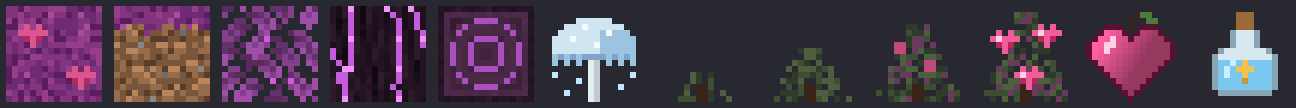
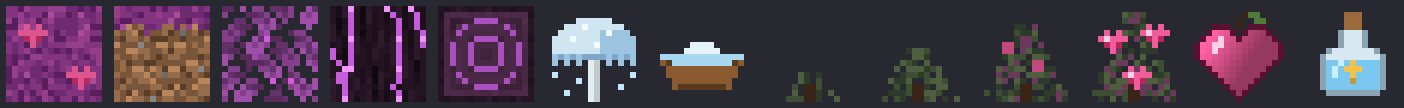
Demon Realm polish: glowing ripe heartfruit, bone meal, weepcap stew, fog option
Ripe heartfruit bushes glow softly (light 5). Bone meal on realm grass
grows the realm's own plants round it: crimson roots, now and then a
weepcap or heartfruit bush. Weepcap stew (two weepcaps and a bowl) gives
a minute of night vision. The realmFog option turns off the client fog,
haze and sighs. The journal mentions wild patches and the realm's edge.

diff --git a/src/main/java/com/linkyoshi90/monstergirls/block/RealmGrassBlock.java b/src/main/java/com/linkyoshi90/monstergirls/block/RealmGrassBlock.java
@@ -23,7 +23,7 @@ import org.joml.Vector3f;
  * Each patch knows how far it is from where the realm was seeded ({@link #DEPTH}): it spreads no further than {@link #MAX_DEPTH} blocks
  * past its source, so a realm grows to its size round a Lilith (or a wild patch) and stops there, instead of swallowing the world.
  */
-public class RealmGrassBlock extends SnowyDirtBlock {
+public class RealmGrassBlock extends SnowyDirtBlock implements net.minecraft.world.level.block.BonemealableBlock {
     public static final MapCodec<RealmGrassBlock> CODEC = simpleCodec(RealmGrassBlock::new);
     /** Block light (not daylight) at or above this keeps the realm away. */
     public static final int LIGHT = 8;
@@ -114,6 +114,40 @@ public class RealmGrassBlock extends SnowyDirtBlock {
         if (depth >= MAX_DEPTH) return null;
         BlockPos to = pos.offset(random.nextInt(3) - 1, random.nextInt(5) - 3, random.nextInt(3) - 1);
         return corrupt(level, to, depth + 1) ? to : null;
+    }
+
+    // --- bone meal: the realm's own plants, as grass grows its own ------------------------------------------------------
+
+    @Override
+    public boolean isValidBonemealTarget(net.minecraft.world.level.LevelReader level, BlockPos pos, BlockState state) {
+        return level.getBlockState(pos.above()).isAir();
+    }
+
+    @Override
+    public boolean isBonemealSuccess(Level level, RandomSource random, BlockPos pos, BlockState state) {
+        return true;
+    }
+
+    @Override
+    public void performBonemeal(ServerLevel level, RandomSource random, BlockPos pos, BlockState state) {
+        bloom(level, pos, random);
+    }
+
+    /** Crimson roots on the bare realm grass round a spot, a weepcap or heartfruit bush now and then. How many plants grew. */
+    public static int bloom(net.minecraft.world.level.LevelAccessor level, BlockPos pos, RandomSource random) {
+        int grown = 0;
+        for (int i = 0; i < 24; i++) {
+            BlockPos ground = pos.offset(random.nextInt(7) - 3, random.nextInt(3) - 1, random.nextInt(7) - 3);
+            if (!level.getBlockState(ground).is(ModBlocks.REALM_GRASS.get()) || !level.isEmptyBlock(ground.above())) continue;
+            int roll = random.nextInt(12);
+            if (roll == 0 && WeepcapBlock.sprout(level, ground)) grown++;
+            else if (roll == 1 && HeartfruitBushBlock.sprout(level, ground)) grown++;
+            else if (roll > 1) {
+                level.setBlock(ground.above(), Blocks.CRIMSON_ROOTS.defaultBlockState(), Block.UPDATE_ALL);
+                grown++;
+            }
+        }
+        return grown;
     }
 
     @Override

diff --git a/src/main/java/com/linkyoshi90/monstergirls/MonsterGirlsConfig.java b/src/main/java/com/linkyoshi90/monstergirls/MonsterGirlsConfig.java
@@ -130,6 +130,7 @@ public final class MonsterGirlsConfig {
     public static final ModConfigSpec.BooleanValue MILK_DRIPS;
     public static final ModConfigSpec.BooleanValue FLIRTING;
     public static final ModConfigSpec.BooleanValue DEMON_REALM;
+    public static final ModConfigSpec.BooleanValue REALM_FOG;
     public static final ModConfigSpec.BooleanValue LUCKY_MOMENTS;
     public static final ModConfigSpec.BooleanValue MONSTERIZATION;
     public static final ModConfigSpec.BooleanValue DREAM_VISITS;
@@ -154,6 +155,10 @@ public final class MonsterGirlsConfig {
         DEMON_REALM = BUILDER
                 .comment("A wild Lilith grows Demon Realm grass around her, and it spreads in the dark until light or holy water drives it back. Off: no new realm grows or spreads.")
                 .define("demonRealm", true);
+
+        REALM_FOG = BUILDER
+                .comment("Inside the Demon Realm a rose-violet fog closes in, haze drifts and distant sighs play (client side).")
+                .define("realmFog", true);
 
         LUCKY_MOMENTS = BUILDER
                 .comment("Slapstick moments: a bathing girl who catches you looking splashes you (a close friend just blushes), and friends beside you now and then trip into you.")
@@ -339,6 +344,10 @@ public final class MonsterGirlsConfig {
 
     public static boolean luckyMoments() {
         return SPEC.isLoaded() ? LUCKY_MOMENTS.get() : LUCKY_MOMENTS.getDefault();
+    }
+
+    public static boolean realmFog() {
+        return SPEC.isLoaded() ? REALM_FOG.get() : REALM_FOG.getDefault();
     }
 
     public static boolean demonRealm() {

diff --git a/tools/gen_realm_assets.py b/tools/gen_realm_assets.py
@@ -359,8 +359,29 @@ def realm_log():
     return side, top
 
 
+def weepcap_stew():
+    """a wooden bowl of pale blue broth with a weepcap cap floating in it"""
+    img = Image.new("RGBA", (16, 16), (0, 0, 0, 0))
+    px = img.load()
+    wood, wood_dark, broth, cap = rgb("#8A5A30"), rgb("#5A3A1E"), rgb("#A8D8F0"), rgb("#E4F2FA")
+    for y in range(8, 14):
+        half = 7 - (y - 8) // 2 if y > 9 else 7
+        for x in range(8 - half, 8 + half):
+            px[x, y] = wood if y > 8 else broth
+    for x in range(2, 14):
+        px[x, 8] = broth
+        px[x, 9] = broth if 3 <= x <= 12 else wood_dark
+    for x in range(5, 11):
+        px[x, 7] = cap
+    for x in (6, 7, 8, 9):
+        px[x, 6] = cap
+    for x in range(4, 12):
+        px[x, 13] = wood_dark
+    return save(img, "item", "weepcap_stew.png")
+
+
 def preview(path):
-    tiles = [realm_top(), realm_side(), realm_leaves(), *realm_log(), weepcap()] + [bush(s) for s in range(4)] + [heartfruit(), holy_water()]
+    tiles = [realm_top(), realm_side(), realm_leaves(), *realm_log(), weepcap(), weepcap_stew()] + [bush(s) for s in range(4)] + [heartfruit(), holy_water()]
     sheet = Image.new("RGBA", (len(tiles) * 18 * 6, 18 * 6), (40, 40, 48, 255))
     for i, t in enumerate(tiles):
         sheet.paste(t.resize((96, 96), Image.NEAREST), (i * 108 + 6, 6), t.resize((96, 96), Image.NEAREST))
@@ -380,6 +401,7 @@ def main():
     data()
     realm_plant_data()
     realm_log()
+    weepcap_stew()
     if "--preview" in sys.argv:
         preview(sys.argv[sys.argv.index("--preview") + 1])
 

diff --git a/src/main/java/com/linkyoshi90/monstergirls/registry/ModItems.java b/src/main/java/com/linkyoshi90/monstergirls/registry/ModItems.java
@@ -215,6 +215,11 @@ public final class ModItems {
     public static final DeferredItem<BlockItem> REALM_LEAVES = ITEMS.registerSimpleBlockItem(ModBlocks.REALM_LEAVES);
     public static final DeferredItem<BlockItem> REALM_LOG = ITEMS.registerSimpleBlockItem(ModBlocks.REALM_LOG);
     public static final DeferredItem<BlockItem> WEEPCAP = ITEMS.registerSimpleBlockItem(ModBlocks.WEEPCAP);
+    /** Weepcap stew: the realm's pale mushrooms let you see in the dark for a while. */
+    public static final DeferredItem<Item> WEEPCAP_STEW = ITEMS.registerItem("weepcap_stew", props -> new Item(props.stacksTo(1)
+            .craftRemainder(net.minecraft.world.item.Items.BOWL)
+            .food(new FoodProperties.Builder().nutrition(5).saturationModifier(0.6F).usingConvertsTo(net.minecraft.world.item.Items.BOWL)
+                    .effect(() -> new net.minecraft.world.effect.MobEffectInstance(net.minecraft.world.effect.MobEffects.NIGHT_VISION, 1200, 0), 1.0F).build())));
     public static final DeferredItem<net.minecraft.world.item.ItemNameBlockItem> HEARTFRUIT = ITEMS.register("heartfruit",
             () -> new net.minecraft.world.item.ItemNameBlockItem(ModBlocks.HEARTFRUIT_BUSH.get(),
                     new Item.Properties().food(new FoodProperties.Builder().nutrition(3).saturationModifier(0.5F).build())));

diff --git a/src/main/java/com/linkyoshi90/monstergirls/gametest/DemonRealmTests.java b/src/main/java/com/linkyoshi90/monstergirls/gametest/DemonRealmTests.java
@@ -256,4 +256,15 @@ public class DemonRealmTests {
         check(level.getBlockState(trunk.above(2)).is(ModBlocks.REALM_LOG.get()) && level.getBlockState(trunk.above(4)).is(ModBlocks.REALM_LEAVES.get()), "the tree over it turned");
         helper.succeed();
     }
+    @GameTest(template = PLATFORM, timeoutTicks = 60, batch = "boneMealOnTheRealm")
+    public static void boneMealOnTheRealm(GameTestHelper helper) {
+        ServerLevel level = helper.getLevel();
+        BlockPos g = ground(helper, 7, 7);
+        for (BlockPos p : BlockPos.betweenClosed(g.offset(-3, 0, -3), g.offset(3, 0, 3))) RealmGrassBlock.corrupt(level, p.immutable());
+        int grown = RealmGrassBlock.bloom(level, g, level.random);
+        int roots = 0;
+        for (BlockPos p : BlockPos.betweenClosed(g.offset(-3, 1, -3), g.offset(3, 1, 3))) if (level.getBlockState(p).is(Blocks.CRIMSON_ROOTS)) roots++;
+        check(grown > 3 && roots > 0, "the realm's own plants: " + grown);
+        helper.succeed();
+    }
 }

diff --git a/src/main/java/com/linkyoshi90/monstergirls/registry/ModBlocks.java b/src/main/java/com/linkyoshi90/monstergirls/registry/ModBlocks.java
@@ -134,6 +134,7 @@ public final class ModBlocks {
     public static final DeferredBlock<com.linkyoshi90.monstergirls.block.HeartfruitBushBlock> HEARTFRUIT_BUSH = BLOCKS.registerBlock("heartfruit_bush",
             com.linkyoshi90.monstergirls.block.HeartfruitBushBlock::new,
             BlockBehaviour.Properties.of().mapColor(MapColor.COLOR_PINK).randomTicks().noCollission().instabreak().sound(SoundType.SWEET_BERRY_BUSH)
+                    .lightLevel(s -> s.getValue(com.linkyoshi90.monstergirls.block.HeartfruitBushBlock.AGE) == 3 ? 5 : 0)
                     .pushReaction(PushReaction.DESTROY));
 
     /** Leaves the Demon Realm has crept into: they weep violet sap and remember what they were (RealmLeavesBlock). */

diff --git a/src/main/java/com/linkyoshi90/monstergirls/client/RealmAtmosphere.java b/src/main/java/com/linkyoshi90/monstergirls/client/RealmAtmosphere.java
@@ -53,7 +53,7 @@ public final class RealmAtmosphere {
         Minecraft mc = Minecraft.getInstance();
         Player p = mc.player;
         if (p == null || mc.level == null || mc.isPaused()) return;
-        if (p.tickCount % 10 == 0) target = density(mc.level, p.blockPosition());
+        if (p.tickCount % 10 == 0) target = com.linkyoshi90.monstergirls.MonsterGirlsConfig.realmFog() ? density(mc.level, p.blockPosition()) : 0.0F;
         last = strength;
         strength += (target - strength) * 0.04F;
         if (strength < 0.02F) return;
